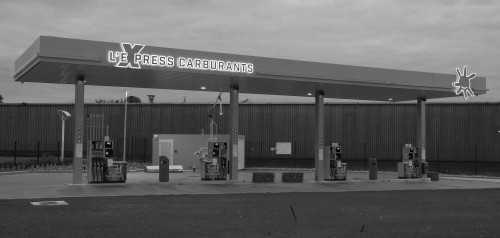
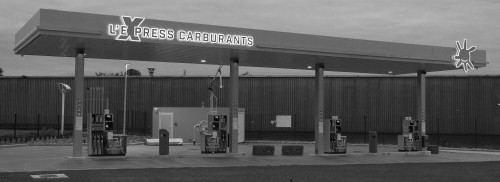
jeudi soir

diff --git a/style.css b/style.css
@@ -2,10 +2,10 @@
   margin:0;
   padding: 0;
 }
-
 body{
   background-color: white;
 }
+
 
 header{
   background-color: white;
@@ -14,7 +14,7 @@ header{
   padding-right: 8em;
   display: flex;
   flex-direction: row;
-  justify-content: space-between;
+  justify-content: flex-start;
   align-items: center;
 }
 
@@ -24,11 +24,12 @@ header{
 
 .element:nth-child(2){
   height: 4.1em;
-
+  margin-left: 2em;
 }
 
 .element:nth-child(3){
   color: red;
+  margin-left: 5em;
 }
 
 i.fa-phone{
@@ -42,10 +43,12 @@ i.fa-gas-pump{
 .element:nth-child(4){
   color: #08146E;
   font-size: 0.8em;
+  margin-left: 11em;
 }
 
 #postal{
   height: 2em;
+  margin-left: 6em;
 }
 
 #bouton{
@@ -55,6 +58,7 @@ i.fa-gas-pump{
   background-color: #08146E;
   color: white;
 }
+
 
 nav{
   height: 2em;
@@ -132,7 +136,7 @@ a:hover{
   opacity: 0.9;
   width: 30em;
   height: 15em;
-  margin-top: 2em;
+  margin-top: 4em;
   margin-left: 1em;
   color: white;
   display: flex;
@@ -197,10 +201,6 @@ button{
 }
 
 
-
-
-
-
 #deuxieme{
   background-color: white;
   display: flex;
@@ -249,16 +249,60 @@ button{
   background-color: red;
 }
 
+
+
+
+
+
+
+
+
+
+
+
+
+
+
+
 .cornichon:nth-child(2){
   background-color: pink;
   width: 100%;
-  height: 15em;
-
+  height: 23em;
   background-image: url(images/express.jpg);
   background-repeat: no-repeat;
-  background-size;
-
+  background-size:cover;
+  display: flex;
+  justify-content: flex-end;
 }
+
+.cerise{
+  background-color: #CF0001;
+  opacity: 0.9;
+  color: white;
+  width: 3em;
+  height: 13em;
+  width: 13em;
+  padding: 0.5em;
+}
+
+.noyau{
+ font-size: 1.5em;
+}
+
+.pepin{
+  border-color: white;
+  width: 2.5em;
+  margin-top: 1em;
+  margin-bottom: 1em;
+}
+
+.grumaux{
+  margin-top: 4.5em;
+}
+
+
+
+
 
 
 
@@ -338,6 +382,7 @@ button{
 #logo3{
   height: 5.5em;
 }
+
 
 footer{
   background-color: #393c41;

diff --git a/index.html b/index.html
@@ -71,9 +71,7 @@
 
         <section id="deuxieme">
             <div class="pain">
-
                 <div class="cornichon">
-
                     <div class="steak">
                         <p class="blue">Venez découvrir notre nouvelle
                           station essence <b>l'Express
@@ -93,18 +91,31 @@
                                 </p>
                         </details>
                     </div>
-
                     <div class="steak">
-                        <iframe width="560" height="315" src="https://www.youtube.com/embed/6xRjHD9jlEI" frameborder="0" allow="accelerometer; autoplay; encrypted-media; gyroscope; picture-in-picture" allowfullscreen></iframe>
+                        <iframe width="558" height="318" src="https://www.youtube.com/embed/6xRjHD9jlEI" frameborder="0" allow="accelerometer; autoplay; encrypted-media; gyroscope; picture-in-picture" allowfullscreen></iframe>
                     </div>
-
                 </div>
 
+
+
+
+
+
                 <div class="cornichon">
-                    <p>aside</p>
+                    <div class="cerise">
+                        <p class ="noyau">Bons de réduction sur le mazout</p>
+                        <hr class="pepin">
+                        <p class="grumaux">Découvrez nos bon de réduction sur le mazout</p>
+                    </div>
                 </div>
 
             </div>
+
+
+
+
+
+
 
             <div class="pain">
 
